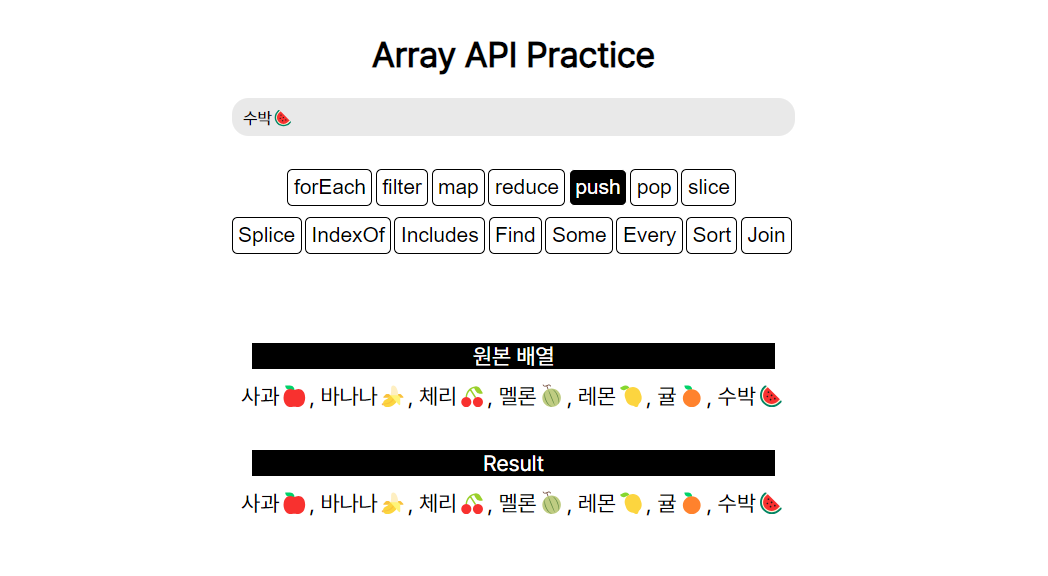
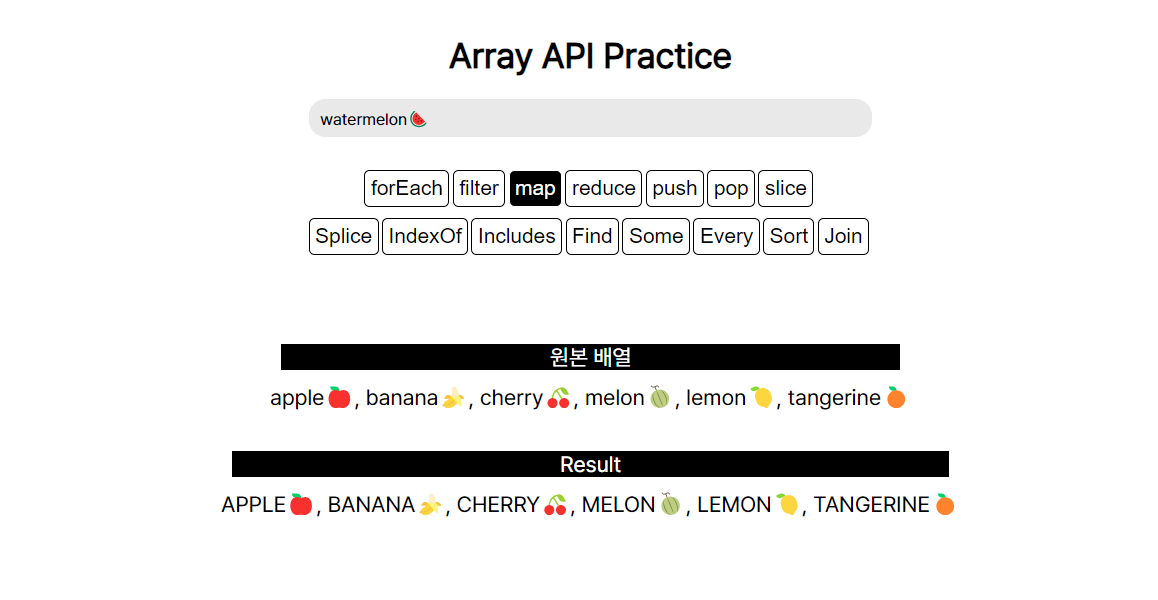
Refactor: 배열 요소명 수정

diff --git a/arrayAPI/src/App.jsx b/arrayAPI/src/App.jsx
@@ -3,12 +3,12 @@ import "./App.css";
 
 function App() {
   const initialArray = [
-    "사과🍎",
-    "바나나🍌",
-    "체리🍒",
-    "멜론🍈",
-    "레몬🍋",
-    "귤🍊",
+    "apple🍎",
+    "banana🍌",
+    "cherry🍒",
+    "melon🍈",
+    "lemon🍋",
+    "tangerine🍊",
   ];
 
   const [array, setArray] = useState(initialArray); // origin array
@@ -79,9 +79,9 @@ function App() {
 
   /** article_2 함수 */
   const handleSplice = () => {
-    // 원본 배열의 2번째 위치부터 2개의 아이템을 제거하고 "파인애플🍍", "포도🍇"을 추가하여 결과를 출력
+    // 원본 배열의 2번째 위치부터 2개의 아이템을 제거하고 "pineapple🍍", "grape🍇"을 추가하여 결과를 출력
     const newArr = [...array];
-    newArr.splice(2, 2, "파인애플🍍", "포도🍇");
+    newArr.splice(2, 2, "pineapple🍍", "grape🍇");
     setResult(newArr);
     setResult(newArr.join(", "));
   };
@@ -125,7 +125,7 @@ function App() {
   };
 
   const handleJoin = () => {
-    const joinedString = array.join();
+    const joinedString = array.join(", ");
     // join() 메서드만 사용할 경우 배열의 원소들의 쉼표로 구분
     // 원소들의 구분을 다른 문자로 하려면 () 안에 원하는 문자를 넣으면 됨 ex array.join("-")
     setResult(joinedString);
